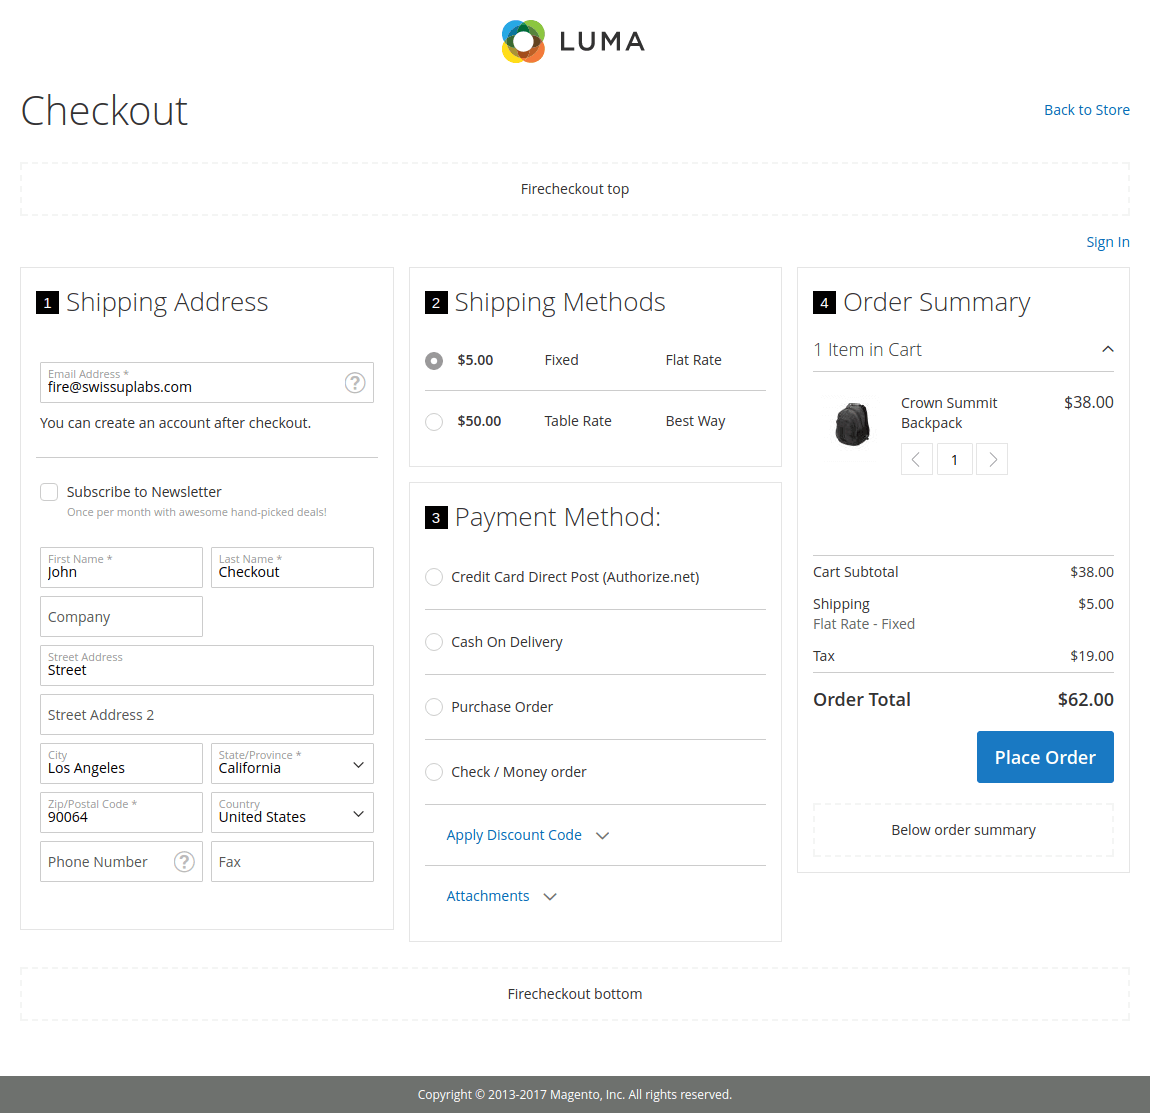
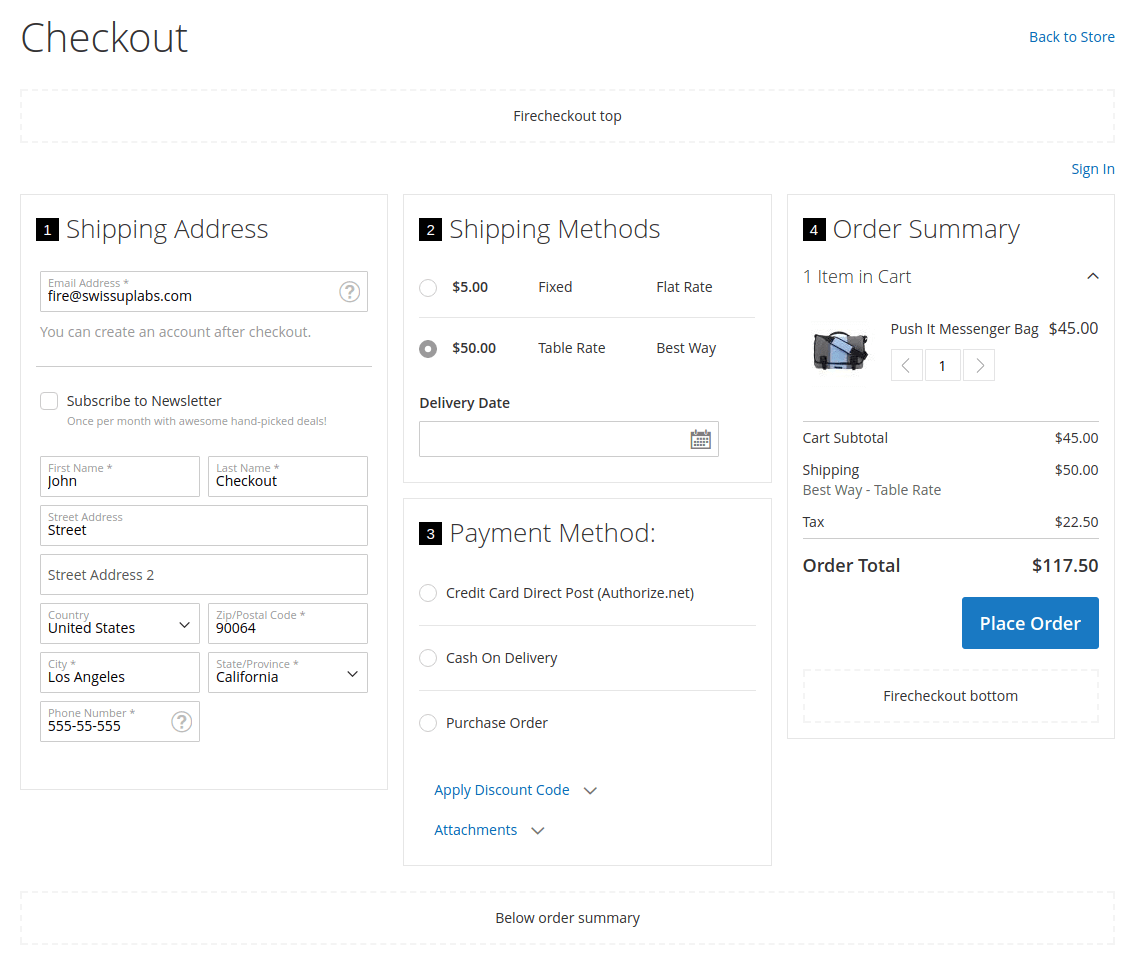
Firecheckout M2: 1.8.0

diff --git a/m2/extensions/firecheckout/configuration.md b/m2/extensions/firecheckout/configuration.md
@@ -39,8 +39,9 @@ Form Styles | [Select form styles](#form-styles) to use at firecheckout page
 
 There are 3 page layouts available to use:
 
- -  Default Checkout Layout
- -  Empty (Minimalistic 1column layout)
+ -  Default Checkout Layout (Depends on your active theme)
+ -  **Empty** (No Header and Footer) - Recommended
+ -  Minimal (Header with Store Logo only)
  -  Full (Full 1column layout with header, navigation and footer)
 
 Page layout screenshots:
@@ -51,6 +52,7 @@ Page layout screenshots:
 
 There are 4 layouts available to use:
 
+ -  1 Column (Multistep Wizard)
  -  1 Column (Expanded)
  -  2 Columns (Wide Payment and Shipping sections)
  -  2 Columns (Place Payment and Shipping sections side by side)
@@ -82,6 +84,24 @@ Option                  | Description
 Above Firecheckout Form | Additional content above firecheckout form
 Below Firecheckout Form | Additional content below firecheckout form
 Below order summary     | Additional content below order summary
+
+### Shiping settings section
+
+![Shipping settings section](/images/m2/firecheckout/configuration/shipping.png)
+
+Option                  | Description
+------------------------|------------
+Default Method          | Default shipping method to use
+Default Method Code     | Same setting as above. Use this field if you can't find the method you are looking for in the previous option
+Hide methods if single method is available only | Useful if you use single method for all customers
+
+### Payment settings section
+
+![Payment settings section](/images/m2/firecheckout/configuration/payment.png)
+
+Option                  | Description
+------------------------|------------
+Default Method          | Default payment method to use
 
 #### Next up
 {:.no_toc}

diff --git a/m2/extensions/firecheckout/changelog.md b/m2/extensions/firecheckout/changelog.md
@@ -10,11 +10,17 @@ category: Firecheckout
 
 ### Version 1.8.0
 
- -  Added new "1 Column (Multistep Wizard)" layout
+{% include gallery.html images=site.data.gallery.m2.firecheckout.changelog.v180 class="phone-up-2 tablet-up-3 photoswipe scroll" %}
+
+ -  Added new "1 Column (Multistep Wizard)" [layout](/m2/extensions/firecheckout/configuration/#layout)
+ -  Added new distraction free "Empty" [page layout](/m2/extensions/firecheckout/configuration/#page-layout)
  -  "I Agree" button added to the Agreement popup
- -  Added ability to configure default Shipping and Payment methods
- -  Added ability to hide Shipping methods step, if single method is available only
+ -  Added ability to configure default [Shipping](/m2/extensions/firecheckout/configuration/#shiping-settings-section) 
+    and [Payment](/m2/extensions/firecheckout/configuration/#payment-settings-section) methods
+ -  Added ability to [hide Shipping methods step](/m2/extensions/firecheckout/configuration/#shiping-settings-section), 
+    if single method is available only
  -  Added missing _en_US.csv_ translation file
+ -  Mobile styles cleanup
  -  Small style improvements
 
 **Modules Updates**
